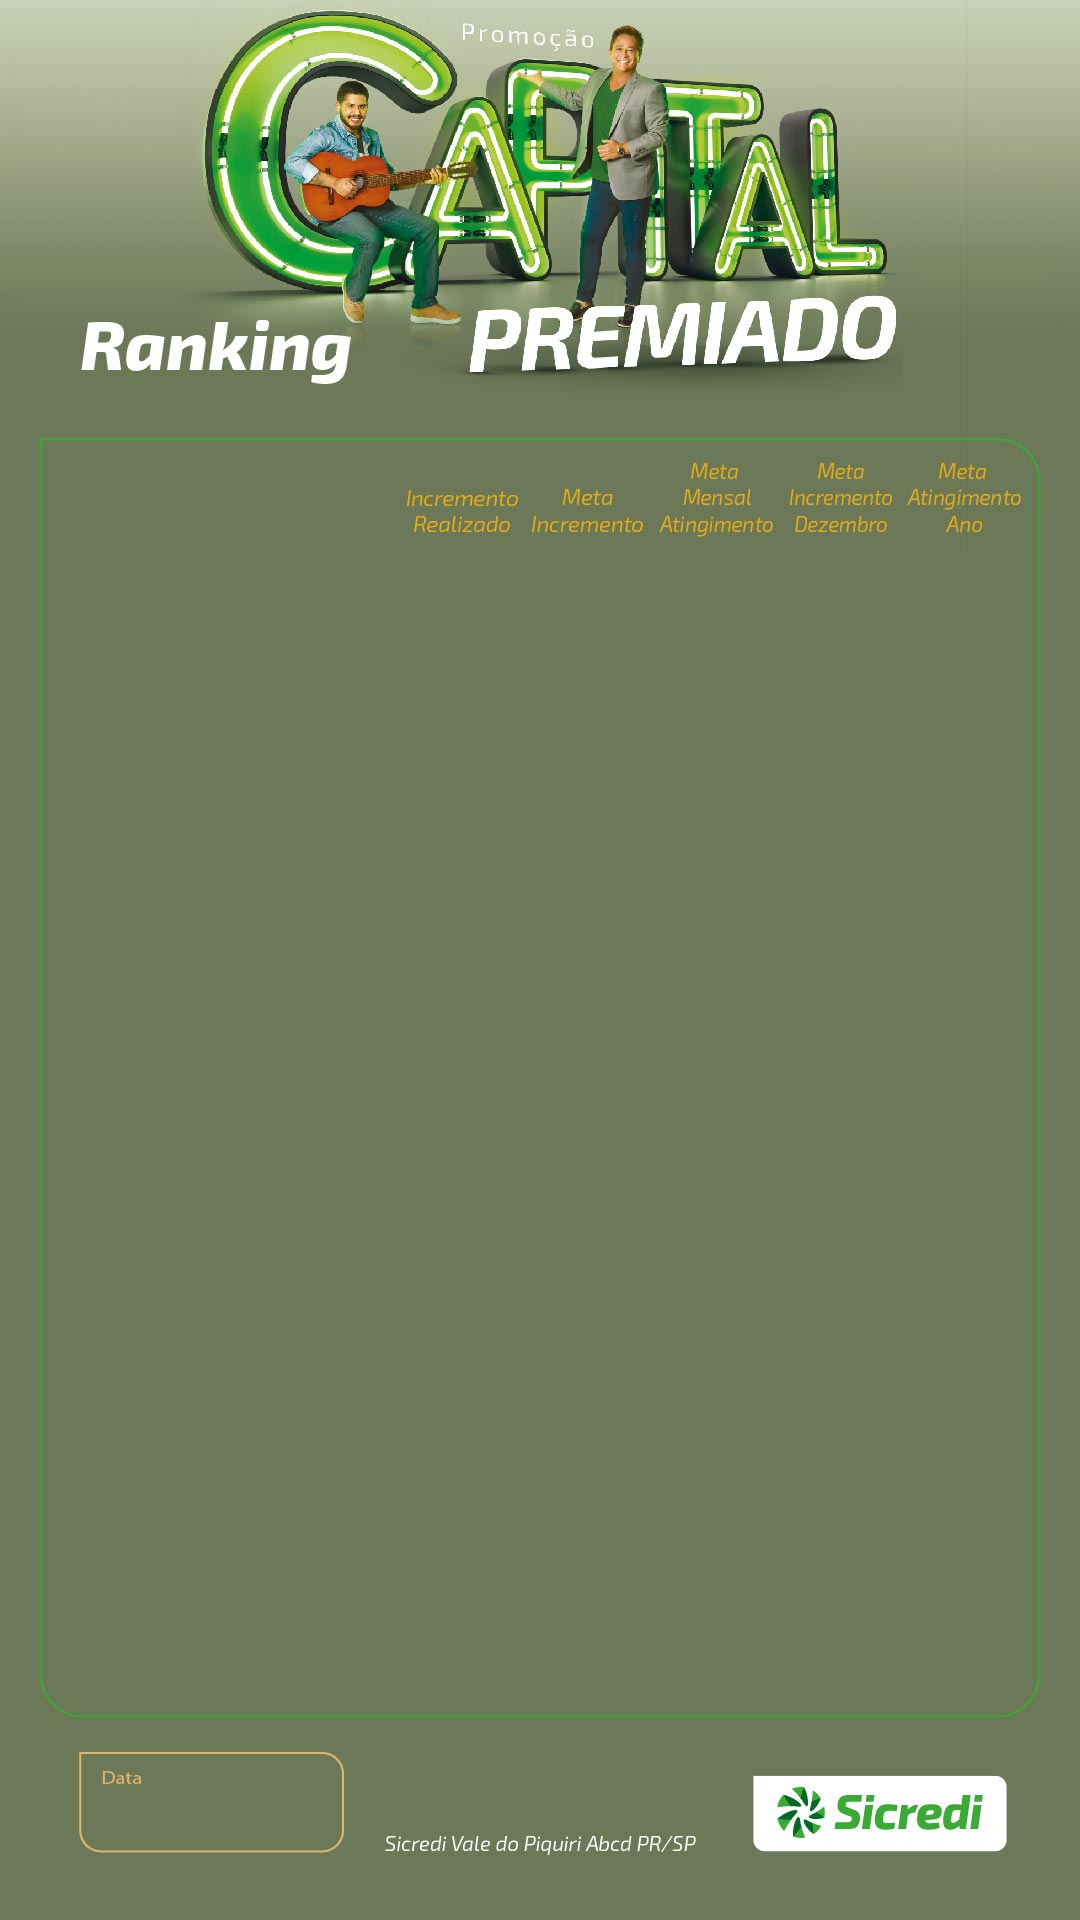
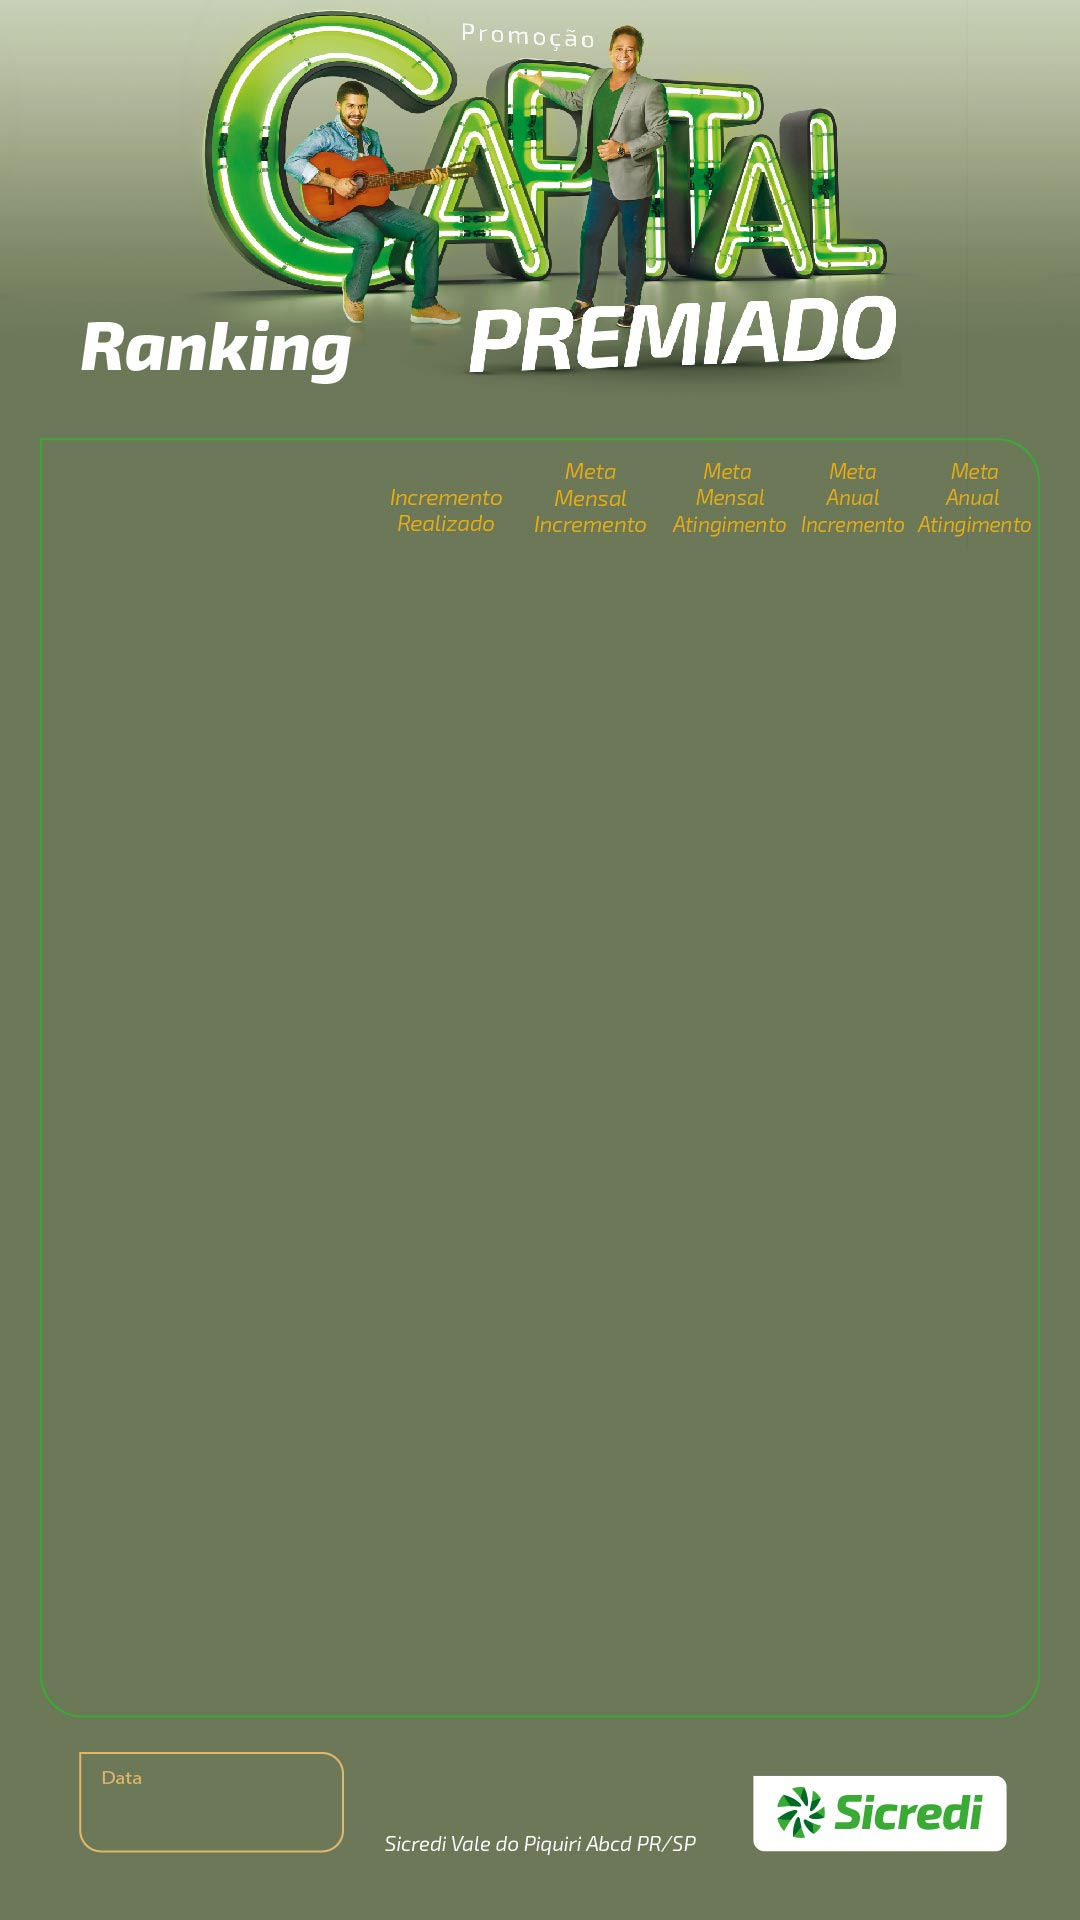
update

Changed region(s): [[0.6111, 0.2188, 0.9472, 0.2812], [0.3667, 0.2188, 0.5806, 0.2812]]

diff --git a/result.php b/result.php
@@ -45,7 +45,7 @@
 
 
       .col-1, .col-2, .col-3, .col-4, .col-5, .col-6{
-        padding-top: 355.5px;
+        padding-top: 355px;
         font-weight: 400;
         display: inline-block !important;
         font-size: 13px;
@@ -58,33 +58,32 @@
 
       .col-1{
         padding-top: 347px;
-        width: 28%;
+        width: 26%;
         margin-left: 5%;
         text-align: left;
       }
 
       .col-2{
-        width: 13.5%;
+        width: 14.5%;
       }
 
       .col-3{
-        width: 13%;
+        width: 14.5%;
 
       }
 
       .col-4{
-        width: 7.5%;
+        margin-left: 10px;
+        width: 8%;
         text-align: center;
-
       }
 
       .col-5{
-        width: 14.5%;
+        width: 14%;
 
       }
       .col-6{
-        width: 6%;
-        margin-left: 20px;
+        width: 7%;
         text-align: center;
       }
 
@@ -112,8 +111,8 @@
       .regional{
         position: absolute;
         margin-top: 240px;
-        margin-left: 60px;
-        font-size: 30px;
+        margin-left: 50px;
+        font-size: 28px;
         color: #3aaa35;
         text-align: right;
         font-weight: 400;
